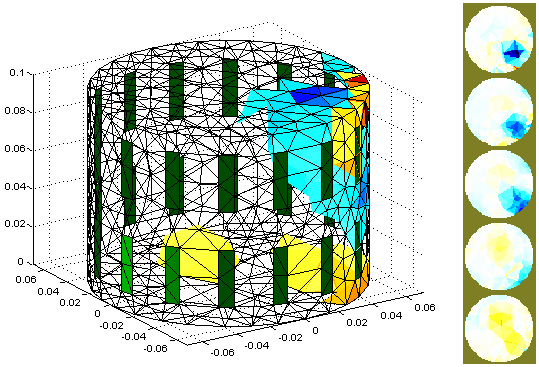
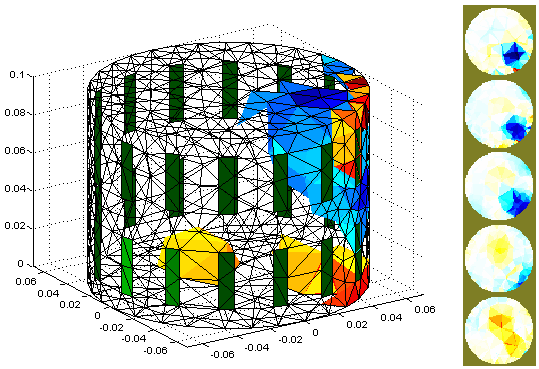
update tutorial with better colour mappings
git-svn-id: svn+ssh://svn.code.sf.net/p/eidors3d/code/trunk@852 82006732-fb7e-4a22-9f28-86a212cce563

diff --git a/htdocs/tutorial/tutorial151_nonlinearGN.m b/htdocs/tutorial/tutorial151_nonlinearGN.m
@@ -3,7 +3,7 @@ function img= tutorial151_nonlinearGN( inv_model, data )
 % img        => output image (or vector of images)
 % inv_model  => inverse model struct
 % data       => measurement data
-% $Id: tutorial151_nonlinearGN.m,v 1.2 2006-11-17 03:57:30 aadler Exp $
+% $Id: tutorial151_nonlinearGN.m,v 1.3 2006-11-17 13:22:31 aadler Exp $
 
 fwd_model= inv_model.fwd_model;
 
@@ -15,17 +15,17 @@ sol= inv_model.tutorial151_nonlinearGN.init_backgnd * ...
 RtR = calc_RtR_prior( inv_model );
 hp2  = calc_hyperparameter( inv_model )^2;
 
-factor= 0;
+factor= 0; norm_d_data= inf;
 for iter= 1:inv_model.parameters.max_iterations
    img.elem_data= sol;
    simdata= fwd_solve( img );
 
    d_data= data - simdata.meas;
-   norm_d_data= norm(d_data); 
+   prev_norm_d_data= norm_d_data; norm_d_data= norm(d_data); 
    eidors_msg('tutorial151_nonlinearGN: iter=%d err=%f factor=%f', ...
            iter,norm_d_data, factor, 2);
 
-   if norm_d_data < inv_model.parameters.term_tolerance
+   if prev_norm_d_data - norm_d_data < inv_model.parameters.term_tolerance
       break;
    end
    

diff --git a/htdocs/tutorial/tutorial151d.m b/htdocs/tutorial/tutorial151d.m
@@ -1,5 +1,5 @@
 % Difference imaging result
-% $Id: tutorial151d.m,v 1.2 2006-11-17 03:57:30 aadler Exp $
+% $Id: tutorial151d.m,v 1.3 2006-11-17 13:22:31 aadler Exp $
 
 % imdl is loaded from file tutorial151_model.mat
 imdl.reconst_type= 'static';
@@ -9,7 +9,7 @@ imdl.parameters.max_iterations= 10;
 % special parameter for this model
 imdl.tutorial151_nonlinearGN.init_backgnd= backgnd;
 
-imdl.hyperparameter.value= 3e-1;
+imdl.hyperparameter.value= 1e-2;
 img_diff= inv_solve(imdl, v_targ);
 
 clf;
